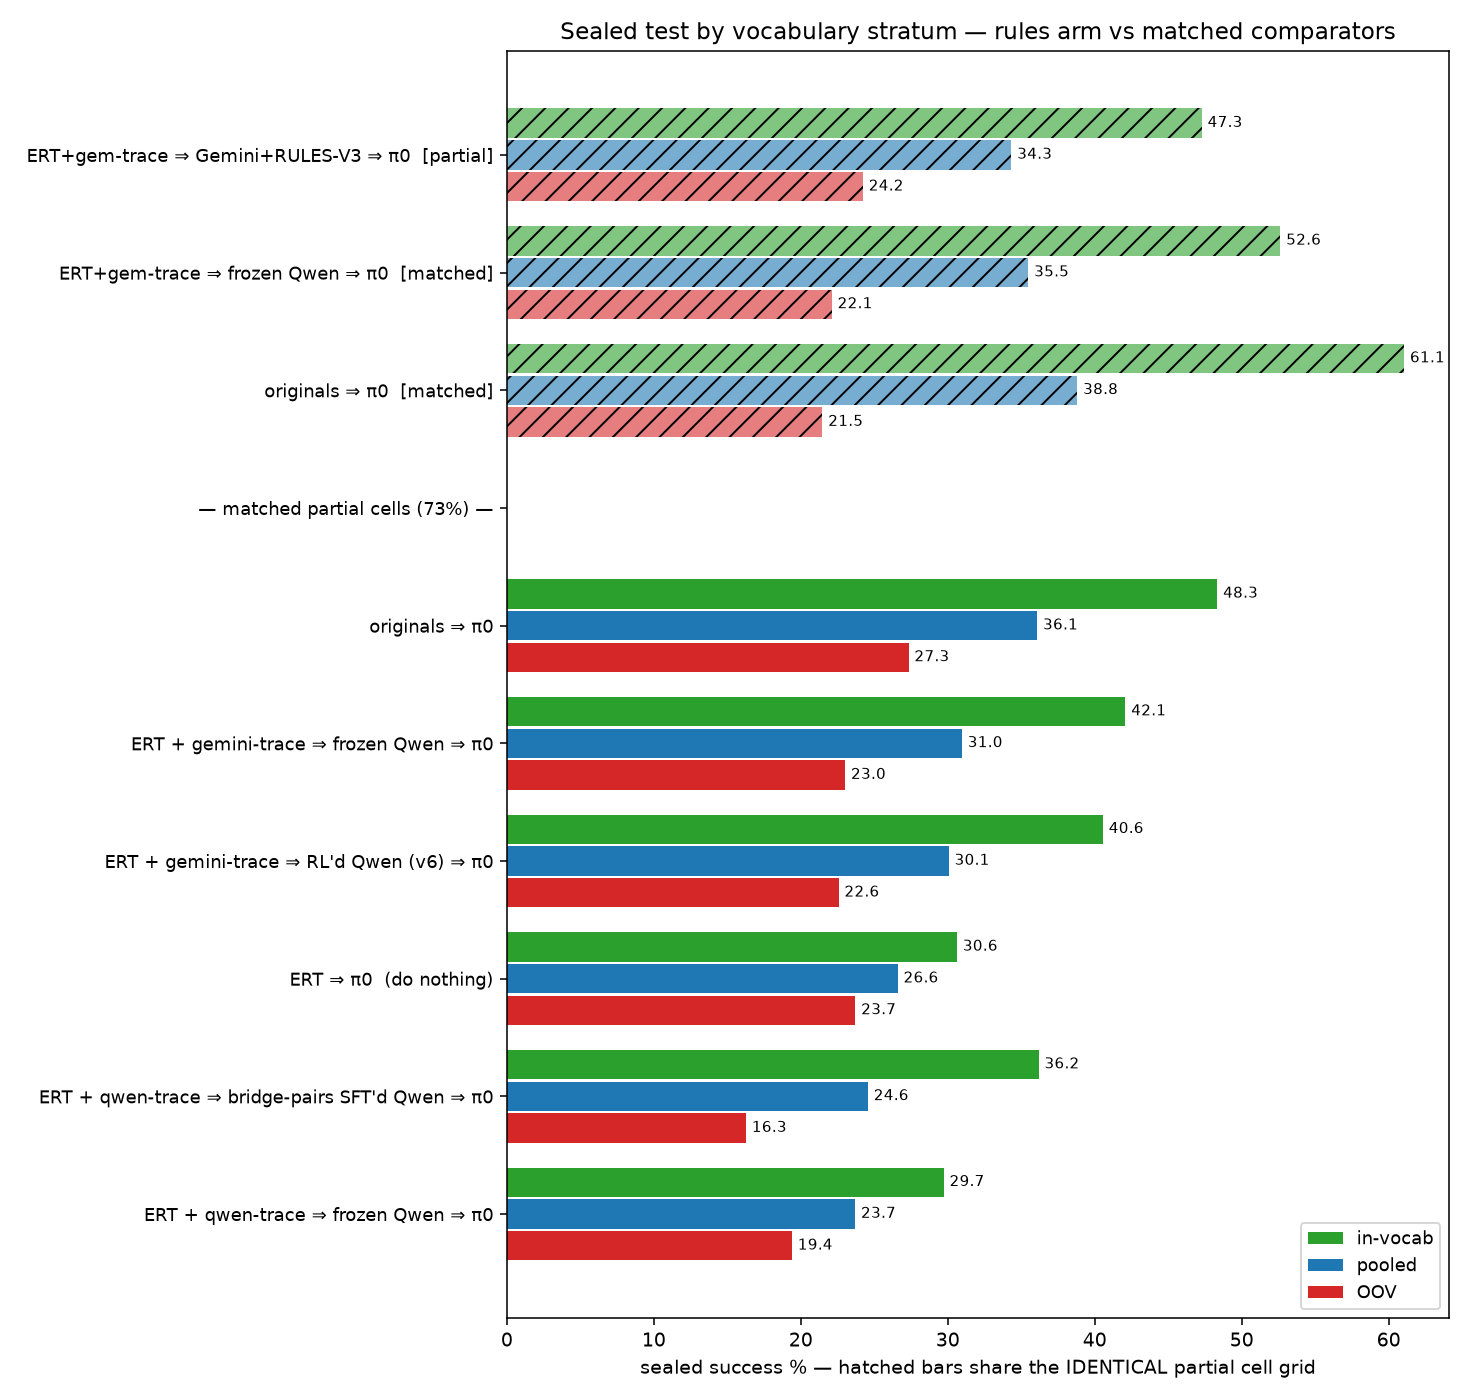
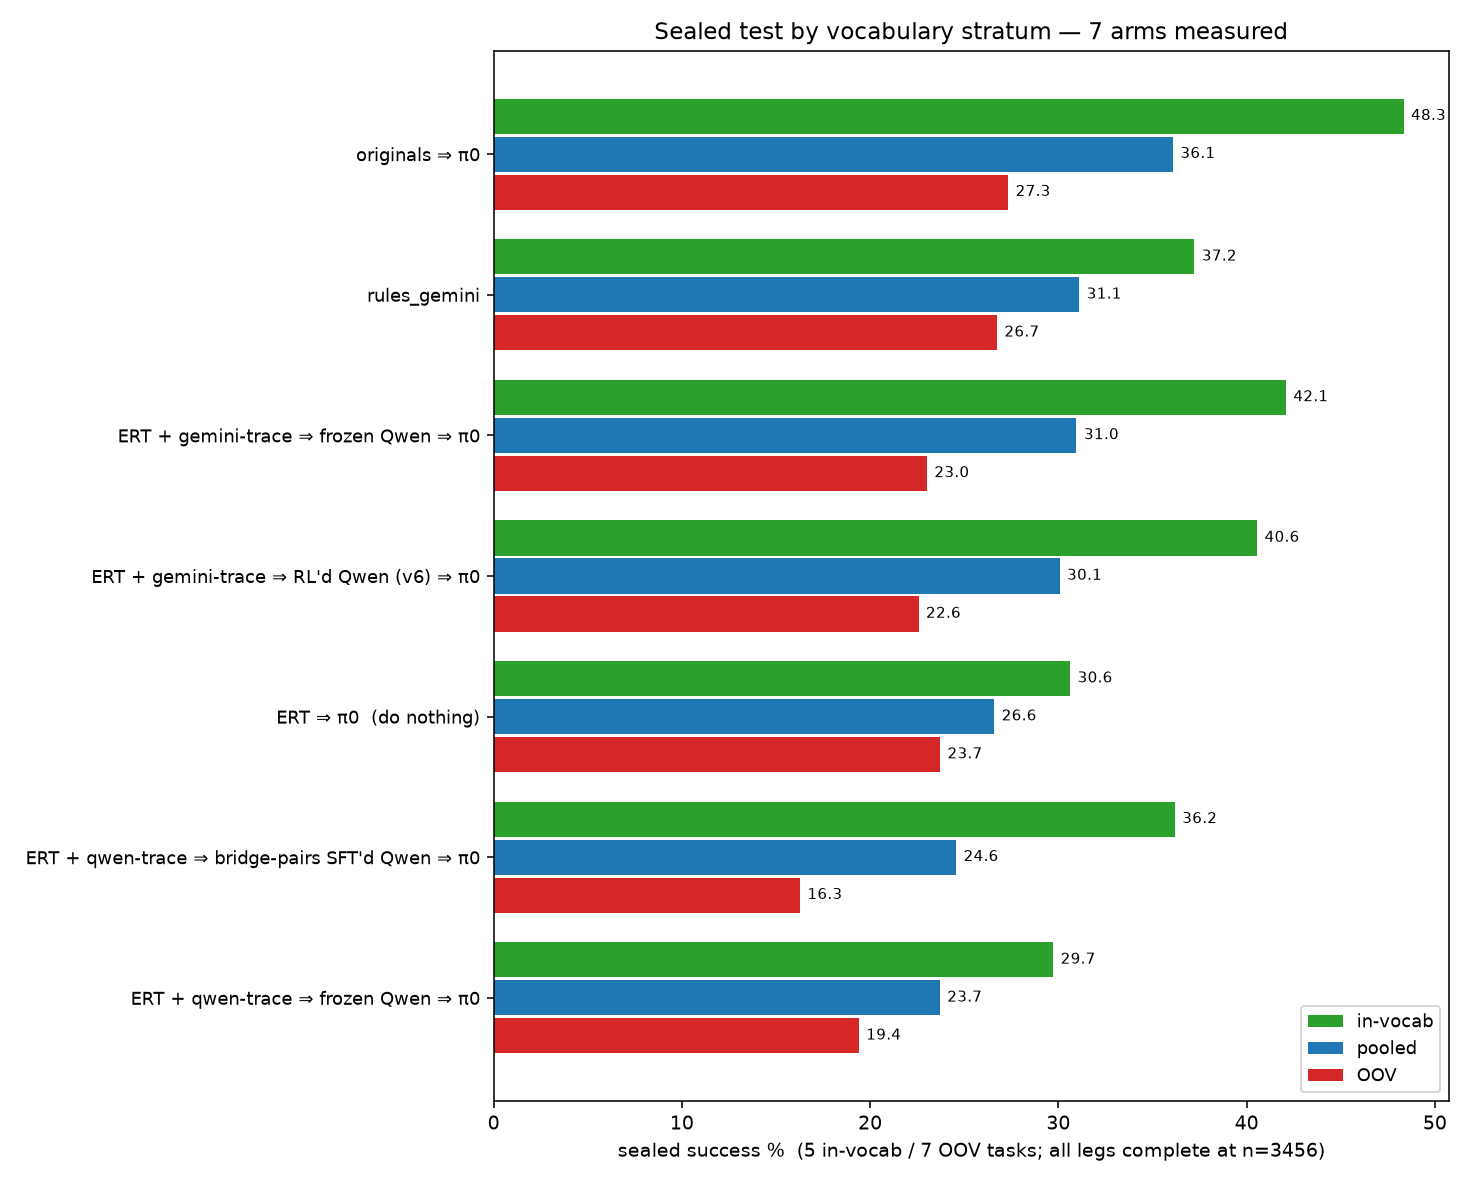
SEALED: rules_v3+Gemini complete at 31.1 (OOV champion, in-vocab tax); chart solid

diff --git a/EXPERIMENT.md b/EXPERIMENT.md
@@ -1597,3 +1597,14 @@ below on every stratum. CLEAN NEGATIVE: v6's RL polish (+~5 on val) buys
 ~0 on sealed — the pipeline's entire sealed value is the Gemini trace.
 Remaining: oracle leg (pod2, ~05:00 UTC) -> leg3 chain; rules leg 1 grinding
 on pod3 (~08:30 UTC at mfs pace) with L40S-pause option pending user.
+
+## 2026-07-24 ~05:30 — SEALED RULES LEG 1 COMPLETE: rules_v3+Gemini 31.1
+
+Pooled 31.1 (in-vocab 37.2 / OOV 26.7) = dead heat with frozen_gemini 31.0
+but mirror-image strata: rules +3.7 OOV (0.6 below the ORIGINALS' OOV) and
+-4.9 in-vocab. Mean recovery ratio 1.02x (vs 0.97x), 3 nominal-beating
+rescues (coke-wheel 2.31x, ramekin 1.90x, eggplant-keyboard 1.49x). Brand
+rule validated: pepsi 37.5 vs frozen 19.1. Autopsy cells: nut-plate 17.0
+(adjective tax), carrot-ramekin 27.8 vs frozen 46.2 (uninstructed rewrite
+beat the textbook one). No arm beats originals pooled; rules closed ~half
+the hostile gap. gemini_bare twin pending (the rules-isolation read).
